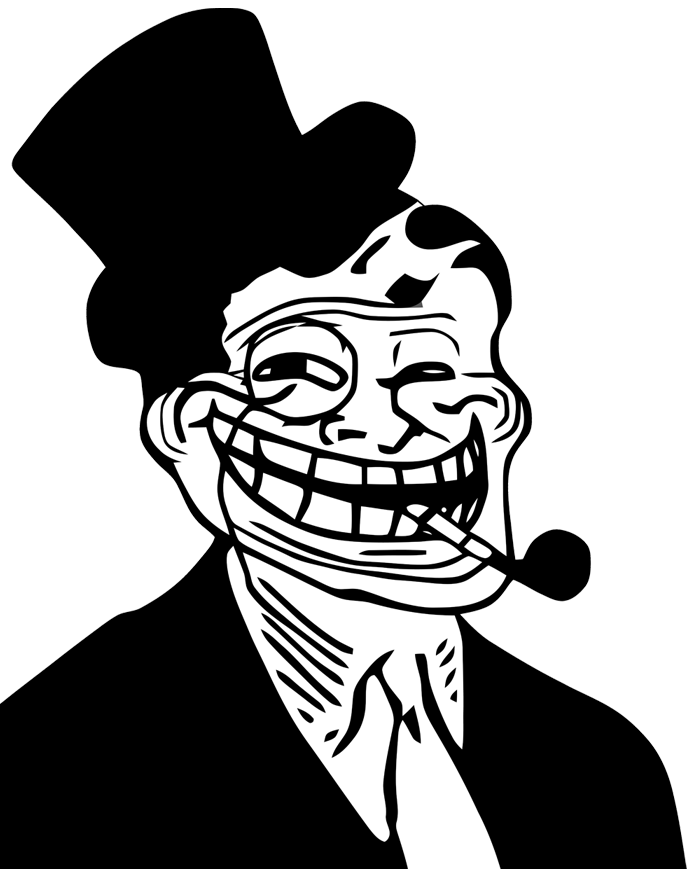
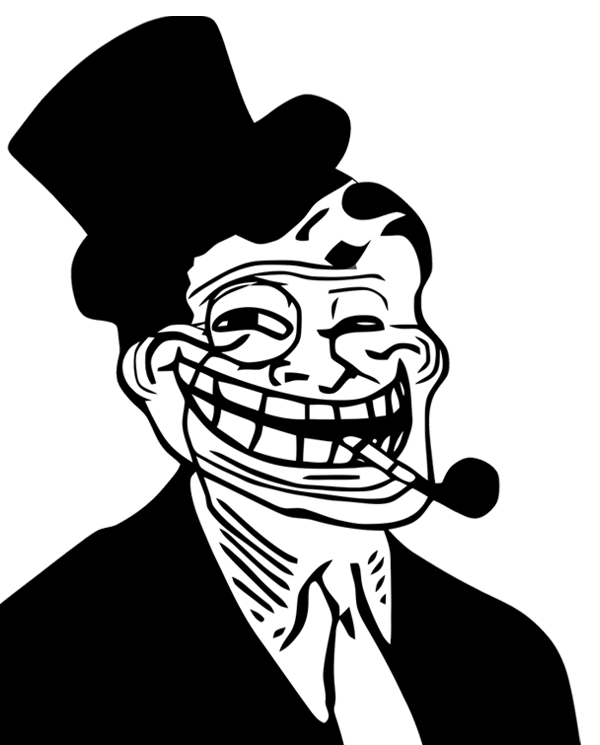
sadad

diff --git a/index.html b/index.html
@@ -1,7 +1,7 @@
 <html>
 <head>
 <style>
-.blink_me {
+.blink {
   animation: blinker 1s linear infinite;
 }
 
@@ -10,10 +10,12 @@
     opacity: 0;
   }
 }
+.center {margin: auto; display: block;}
+
 </style>
 </head>
 <body>
-<img src="../Trollface.png"/>
-<h1 class="blink_me">Nyari apaan bro jauh jauh ke sini?</h1>
+<img class="center" src="Trollface.png"/>
+<h1 class="blink" style="text-align: center">Nyari apaan bro jauh jauh ke sini?</h1>
 </body>
 </html
